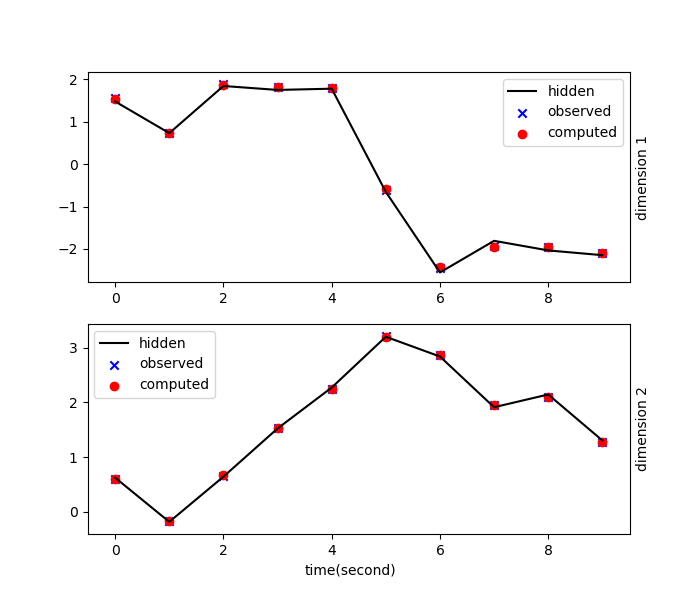
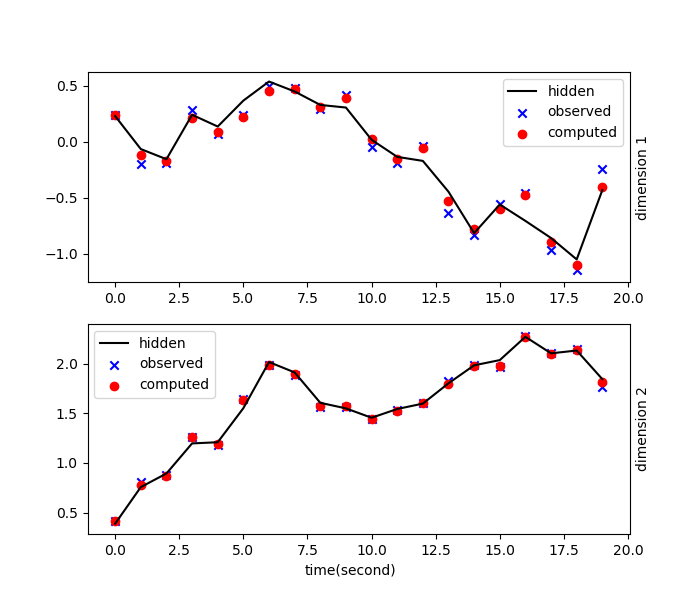
model4 (intermediate)

diff --git a/python/models/model4.py b/python/models/model4.py
@@ -22,10 +22,11 @@ zero = np.zeros(d)
 id = np.identity(d)
 
 # Define the dynamic model
-cov_h = id
+cov_h = 0.05*id
 prior = sm.Simulation(target_rv = sm.RVContinuous(name = 'normal', mean = zero, cov = id), algorithm = lambda *args: np.random.multivariate_normal(zero, id))
-A = np.diag([0, 0.04] + [-100.0]*(d-2))
+A = np.diag([0, 0.04] + [-10.0]*(d-2))
 eA = scipy.linalg.expm(A)
+#print(eA)
 func_h = lambda k, x, noise: np.dot(eA, x) + noise
 #noise_sim_h = sm.Simulation(algorithm = lambda *args: np.random.multivariate_normal(mean = zero, cov = cov_h))
 #conditional_pdf_h = lambda k, x, past: scipy.stats.multivariate_normal.pdf(x, mean = func_h(k, past, zero), cov = cov_h)

diff --git a/python/experiments/KalmanFilter/proj_ekf4.py b/python/experiments/KalmanFilter/proj_ekf4.py
@@ -36,4 +36,4 @@ ekf.compute_error(hidden_path)
 ekf.plot_error(show = True, file_path = image_dir +  model_name + '_abs_err_vs_time.png')
 ekf_final_mean = ekf.computed_trajectory[-1]
 exact_final_mean = model4.proj_update(observed_path[1:])[0][-1]
-print("Error in (final) mean = {}".format(np.linalg.norm(ekf_final_mean - exact_final_mean)))
+print("Error in (final) mean = {}\nRMSE = {}".format(np.linalg.norm(ekf_final_mean - exact_final_mean), ekf.rmse))
